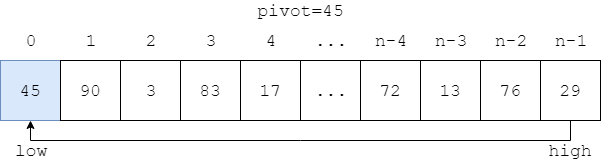
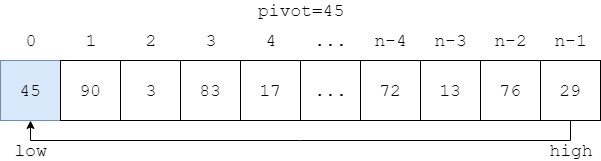
use png pictures instead of svg

diff --git a/docs/Sort/QuickSort/README.md b/docs/Sort/QuickSort/README.md
@@ -16,15 +16,15 @@
 
 初始时$$ left $$和$$ right $$两个部分都是空的，分别从数组$$ s $$的左右两边向中间推进。例如下图中的数组：
 
-![QuickSort1.svg](../res/QuickSort1.svg)
+![QuickSort1.png](../res/QuickSort1.png)
 
 初始时设置$$ pivot = s[0] = 45 $$，$$ low = 0 $$，$$ high = n-1 $$。从$$ high $$开始，向左搜索到第一个元素$$ s[high] \lt pivot $$（$$ high = n-1 $$），该元素不符合$$ right $$的性质，因此将$$ s[high] $$移动到$$ s[low] $$（$$ s[low] = s[high] $$）。
 
-![QuickSort2.svg](../res/QuickSort2.svg)
+![QuickSort2.png](../res/QuickSort2.png)
 
 再从$$ low $$开始，向右搜索到第一个元素$$ s[low] \gt pivot $$（$$ low = 1 $$），该元素不符合$$ left $$的性质，因此将$$ s[low] $$移动到$$ s[high] $$（$$ s[high] = s[low] $$）。
 
-![QuickSort3.svg](../res/QuickSort3.svg)
+![QuickSort3.png](../res/QuickSort3.png)
 
 重复上面的操作，直到$$ low = high $$，这时的$$ low $$和$$ high $$的位置即为$$ left $$和$$ right $$的中间位置，将$$ pivot $$移动到该位置（$$ s[low] = pivot $$），就完成了一轮排序。$$ left $$和$$ right $$内部仍然是无序的，把它们也当作一个数组，递归的进行排序即可。
 

diff --git a/docs/Sort/InsertSort/README.md b/docs/Sort/InsertSort/README.md
@@ -16,11 +16,11 @@
 
 例如下图中，$$ left $$部分为$$ s[0,5] $$，$$ right $$部分为$$ s[6,n-1] $$，$$ right $$最左边的首部元素$$ x = s[6] = 41 $$，在$$ left $$部分中合适的插入位置为$$ i = 3 $$（$$ s[2] \le x \le s[3] $$）。
 
-![InsertSort1.svg](../res/InsertSort1.svg)
+![InsertSort1.png](../res/InsertSort1.png)
 
 将$$ s[3,5] $$向右移动一位到$$ s[4,6] $$，将原$$ x $$移动到$$ s[3] $$，就完成了一次插入。
 
-![InsertSort2.svg](../res/InsertSort2.svg)
+![InsertSort2.png](../res/InsertSort2.png)
 
 对于长度为$$ n $$的数组$$ s $$，将$$ left $$初始化为$$ s[0,0] $$，$$ right $$初始化为$$ s[1,n-1] $$。重复上面的插入操作，直到$$ right $$为空，这时$$ left $$部分即为已序的结果，算法结束。对长度为$$ n $$的序列$$ s $$，每一轮将$$ right $$中一个元素插入$$ left $$中的时间为$$ O(n) $$，总共需要$$ n $$轮操作，该算法的时间复杂度为$$ O(n^2) $$。
 

diff --git a/docs/Sort/MergeSort/README.md b/docs/Sort/MergeSort/README.md
@@ -14,7 +14,7 @@
 
 对于长度为$$ n $$的序列$$ s[0,n) $$，将其从中间分开为$$ left[0,k] $$和$$ right[k+1,n-1] $$两个部分（$$ 0 \le k \lt n-1 $$），假设$$ left[0,k] $$和$$ right[k+1,n-1] $$两个部分已经是升序的，那么只需要将这两个部分进行合并排序即可。设$$ i $$和$$ j $$两个下标分别从$$ left $$和$$ right $$的最左边（$$ 0 \le i \le k $$，$$ k+1 \le j \le n-1 $$）向右遍历，每次将$$ left[i] $$和$$ right[j] $$中较小的值插入新的数组中，即可完成一次合并操作。
 
-![MergeSort1.svg](../res/MergeSort1.svg)
+![MergeSort1.png](../res/MergeSort1.png)
 
 递归的将$$ left[0,k] $$和$$ right[k+1,n-1] $$分别拆分为更小的$$ left $$和$$ right $$两部分，假定子部分也是升序的，重复上述操作即可得到有序的$$ left[0,k] $$和$$ right[k+1,n-1] $$。这样递归下去，当某个部分的长度等于1时，可以看作长度为1的有序部分，递归结束。
 
